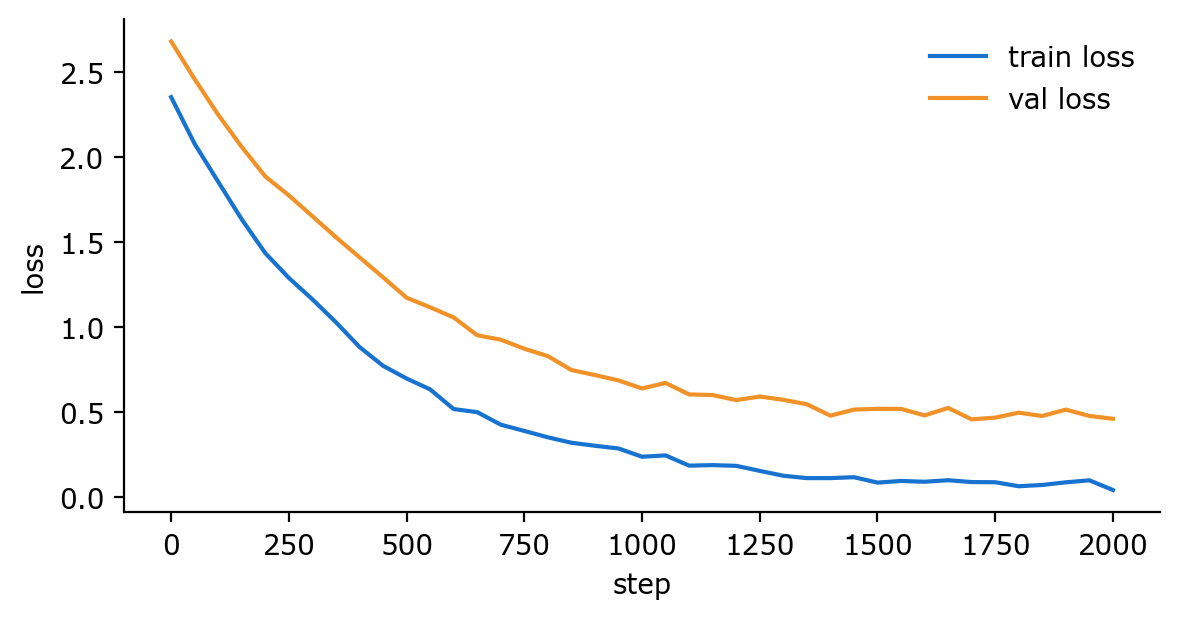
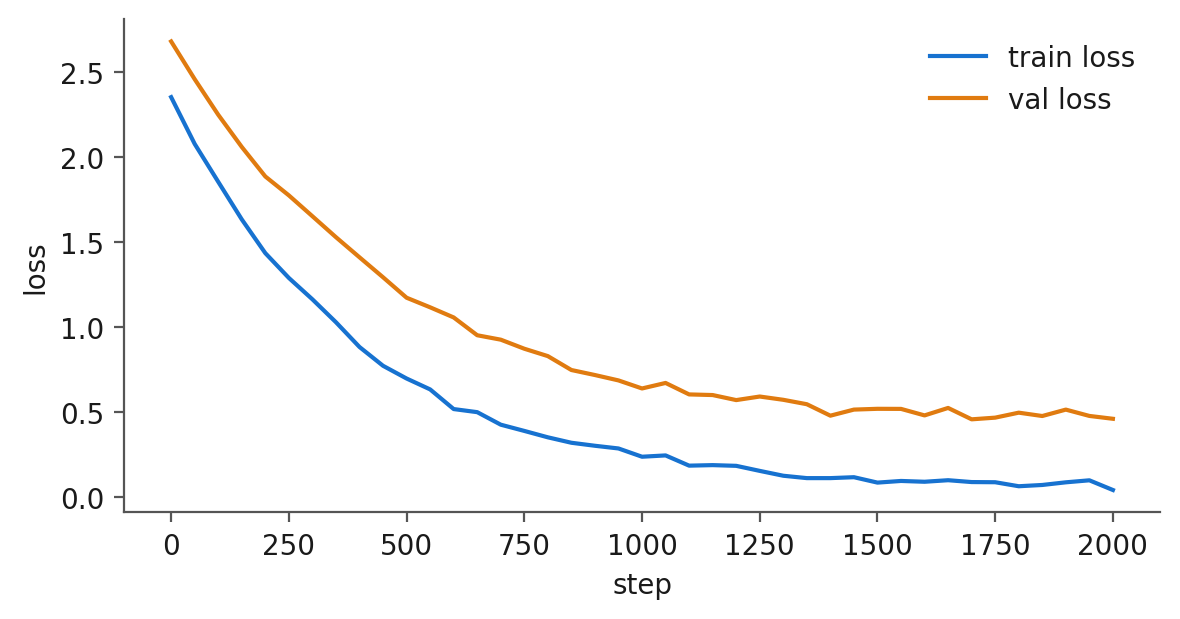
Make note figures theme-aware (light and dark renderings)

diff --git a/notes/_lib/plotting.py b/notes/_lib/plotting.py
@@ -1,22 +1,74 @@
 """Plotting helpers for notes.
 
 Notes only import these functions and read saved results from disk; experiments live elsewhere.
+
+Every public plot function draws the figure twice: first in the light theme, then in the
+dark theme, both on a transparent background. Put `#| renderings: [light, dark]` on the
+chunk and Quarto shows the version matching the page theme (including the theme button).
+
+Put the figure label, width class and caption on a surrounding ::: block, not on the chunk
+(a `fig-` label on the chunk makes Quarto treat the two versions as sub-figures (a)/(b)):
+
+    ::: {#fig-curves .column-page}
+    ```{python}
+    #| renderings: [light, dark]
+    plot_curves("results/curves.csv")
+    ```
+
+    Caption.
+    :::
 """
 
 from pathlib import Path
 
 import matplotlib.pyplot as plt
 import numpy as np
+from matplotlib.colors import LinearSegmentedColormap
 
-plt.rcParams.update({
-    "font.family": "sans-serif",
-    "font.sans-serif": ["Lato", "Verdana", "DejaVu Sans"],
-    "font.size": 10,
-    "axes.spines.top": False,
-    "axes.spines.right": False,
-})
+# Colors mirror shared.css (light / dark). The first series color is the site's accent (link blue).
+# `seq` is the sequential colormap for heatmaps: low values blend into the page background.
+THEMES = {
+    "light": {"text": "#1a1a1a", "muted": "#555555", "grid": "#e3e3e3",
+              "series": ["#1772d0", "#e07b10", "#555555", "#2e9e5b"],
+              "seq": plt.get_cmap("Blues")},
+    "dark": {"text": "#e6e6e6", "muted": "#b4b4b4", "grid": "#33363c",
+             "series": ["#6aa8ec", "#f5a95a", "#b4b4b4", "#6cc890"],
+             "seq": LinearSegmentedColormap.from_list("dark_blues", ["#1f2733", "#24507f", "#4a8fd6", "#b9d7f7"])},
+}
 
-BLUE, ORANGE, GREY = "#1772d0", "#f09228", "#888888"
+
+def _style(theme):
+    c = THEMES[theme]
+    return {
+        "font.family": "sans-serif",
+        "font.sans-serif": ["Lato", "Verdana", "DejaVu Sans"],
+        "font.size": 10,
+        "figure.facecolor": "none",
+        "axes.facecolor": "none",
+        "savefig.facecolor": "none",
+        "savefig.transparent": True,
+        "axes.spines.top": False,
+        "axes.spines.right": False,
+        "axes.edgecolor": c["muted"],
+        "axes.labelcolor": c["text"],
+        "axes.titlecolor": c["text"],
+        "axes.prop_cycle": plt.cycler(color=c["series"]),
+        "xtick.color": c["muted"],
+        "ytick.color": c["muted"],
+        "xtick.labelcolor": c["text"],
+        "ytick.labelcolor": c["text"],
+        "grid.color": c["grid"],
+        "legend.frameon": False,
+        "legend.labelcolor": c["text"],
+        "text.color": c["text"],
+    }
+
+
+def _in_both_themes(draw):
+    """Call draw(theme) once per theme (light first), each inside its matplotlib style."""
+    for theme in ("light", "dark"):
+        with plt.rc_context(_style(theme)):
+            draw(theme)
 
 
 def read_csv(path):
@@ -29,31 +81,41 @@ def plot_curves(path, ylabel="loss", figsize=(6, 3.2)):
     """Line plot of every column against the first one (e.g. step)."""
     cols = read_csv(path)
     names = list(cols)
-    fig, ax = plt.subplots(figsize=figsize)
-    for name, color in zip(names[1:], [BLUE, ORANGE, GREY, "black"]):
-        ax.plot(cols[names[0]], cols[name], label=name.replace("_", " "), color=color)
-    ax.set_xlabel(names[0])
-    ax.set_ylabel(ylabel)
-    ax.legend(frameon=False)
-    fig.tight_layout()
-    return fig
+
+    def draw(theme):
+        fig, ax = plt.subplots(figsize=figsize)
+        for name in names[1:]:
+            ax.plot(cols[names[0]], cols[name], label=name.replace("_", " "))
+        ax.set_xlabel(names[0])
+        ax.set_ylabel(ylabel)
+        ax.legend()
+        fig.tight_layout()
+
+    _in_both_themes(draw)
 
 
-def plot_grid(path, xlabel="", ylabel="", cmap="Blues"):
+def plot_grid(path, xlabel="", ylabel=""):
     """Heatmap of a 2-D grid saved as CSV (first row/column are labels)."""
     raw = np.genfromtxt(Path(path), delimiter=",", dtype=str)
     xticks, yticks = raw[0, 1:], raw[1:, 0]
     values = raw[1:, 1:].astype(float)
-    fig, ax = plt.subplots(figsize=(9, 3.2))
-    im = ax.imshow(values, cmap=cmap, aspect="auto")
-    ax.set_xticks(range(len(xticks)), xticks)
-    ax.set_yticks(range(len(yticks)), yticks)
-    ax.set_xlabel(xlabel)
-    ax.set_ylabel(ylabel)
-    for i in range(values.shape[0]):
-        for j in range(values.shape[1]):
-            ax.text(j, i, f"{values[i, j]:.0f}", ha="center", va="center", fontsize=8,
-                    color="white" if values[i, j] > values.max() / 2 else "black")
-    fig.colorbar(im, ax=ax, fraction=0.03)
-    fig.tight_layout()
-    return fig
+
+    def draw(theme):
+        fig, ax = plt.subplots(figsize=(9, 3.2))
+        cmap = THEMES[theme]["seq"]
+        im = ax.imshow(values, cmap=cmap, aspect="auto")
+        ax.set_xticks(range(len(xticks)), xticks)
+        ax.set_yticks(range(len(yticks)), yticks)
+        ax.set_xlabel(xlabel)
+        ax.set_ylabel(ylabel)
+        for i in range(values.shape[0]):
+            for j in range(values.shape[1]):
+                r, g, b, _ = cmap(im.norm(values[i, j]))
+                light_cell = 0.2126 * r + 0.7152 * g + 0.0722 * b > 0.45
+                ax.text(j, i, f"{values[i, j]:.0f}", ha="center", va="center", fontsize=8,
+                        color="black" if light_cell else "white")
+        cbar = fig.colorbar(im, ax=ax, fraction=0.03)
+        cbar.outline.set_edgecolor(THEMES[theme]["muted"])
+        fig.tight_layout()
+
+    _in_both_themes(draw)
